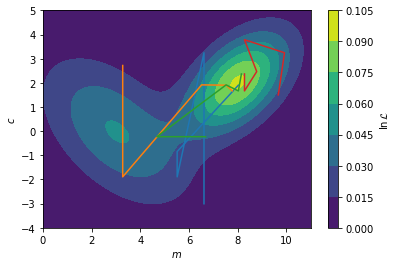
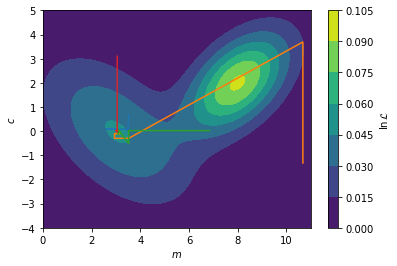
deploy: a7051bd24dda1ea9a15cdadef0919db29575c3d3

Changed region(s): [[0.272, 0.1504, 0.7859, 0.6617]]

diff --git a/searchindex.js b/searchindex.js
@@ -1,1 +1,1 @@
-Search.setIndex({docnames:["1_the_fourier_transform/an_introduction_to_fourier_transforms","1_the_fourier_transform/fourier_transforms_for_reflectometry_analysis","2_model_dependent_analysis/what_is_model_dependent_analysis","3_reflectometry_slab_models/how_we_calculate_the_reflectivity_of_a_slab_model","3_reflectometry_slab_models/optical_parameters_for_neutrons_and_xrays","3_reflectometry_slab_models/roughness_and_microslicing","3_reflectometry_slab_models/the_slab_model","4_model_reparameterisation/a_case_for_model_reparameterisation","4_model_reparameterisation/niti_multilayer_example","4_model_reparameterisation/phospholipid_monolayer_example","5_fitting_processes_and_problems/how_do_we_maximise_the_likelihood","5_fitting_processes_and_problems/how_to_leverage_our_prior_knowledge","5_fitting_processes_and_problems/what_is_the_likelihood","contributors","intro"],envversion:{"sphinx.domains.c":2,"sphinx.domains.changeset":1,"sphinx.domains.citation":1,"sphinx.domains.cpp":5,"sphinx.domains.index":1,"sphinx.domains.javascript":2,"sphinx.domains.math":2,"sphinx.domains.python":3,"sphinx.domains.rst":2,"sphinx.domains.std":2,"sphinx.ext.intersphinx":1,"sphinxcontrib.bibtex":9,sphinx:56},filenames:["1_the_fourier_transform/an_introduction_to_fourier_transforms.md","1_the_fourier_transform/fourier_transforms_for_reflectometry_analysis.ipynb","2_model_dependent_analysis/what_is_model_dependent_analysis.md","3_reflectometry_slab_models/how_we_calculate_the_reflectivity_of_a_slab_model.ipynb","3_reflectometry_slab_models/optical_parameters_for_neutrons_and_xrays.ipynb","3_reflectometry_slab_models/roughness_and_microslicing.ipynb","3_reflectometry_slab_models/the_slab_model.md","4_model_reparameterisation/a_case_for_model_reparameterisation.md","4_model_reparameterisation/niti_multilayer_example.ipynb","4_model_reparameterisation/phospholipid_monolayer_example.ipynb","5_fitting_processes_and_problems/how_do_we_maximise_the_likelihood.ipynb","5_fitting_processes_and_problems/how_to_leverage_our_prior_knowledge.md","5_fitting_processes_and_problems/what_is_the_likelihood.ipynb","contributors.md","intro.md"],objects:{},objnames:{},objtypes:{},terms:{"0":[1,3,4,5,9,10,11,12,14],"000":10,"00000j":4,"00001":4,"00039":14,"001":[1,3,5],"00260":14,"003":14,"00461223":4,"0053":14,"007":14,"00890j":4,"012":14,"01934":4,"01980001503076100":14,"02":14,"022":[8,14],"02614057":10,"0294":14,"03":14,"03156j":4,"033":10,"03342360":4,"04493869":10,"0469":14,"04893":14,"0496667614679125":12,"05139":4,"06":[4,5,8],"07":[4,14],"074":1,"074e":[1,5],"078":14,"08j":4,"092":10,"09j":4,"0j":[3,5],"1":[0,1,3,4,5,8,9,10,11,12,14],"10":[1,4,5,8,10,12,14],"100":4,"1000":[1,3,9,10,12],"1008202821328":14,"1016":14,"1023":14,"1039":14,"104":1,"1051":14,"107":14,"108":14,"1098":14,"11":[10,14],"1103":14,"1107":14,"1119":14,"1198":14,"12":[1,5,12,14],"1204":14,"1251681342":4,"14":[4,5],"15":[9,14],"155":14,"16":[1,3],"167":10,"17":5,"1761":14,"1763":14,"18":[9,14],"180":4,"186":1,"186e":[1,3,5],"19":[9,10,14],"193":14,"1948":14,"194812030504":14,"1954":14,"197":14,"1980":14,"1997":14,"1998":14,"1999":14,"1e":5,"1e6":4,"1f77b4":12,"1j":[1,3],"2":[1,3,4,5,8,10,12,14],"20":[1,3,5],"200":[1,3,5,14],"2005":14,"2006":14,"2007":14,"200q":1,"2010":14,"2011":14,"2018":14,"2019":14,"2021":14,"2022":14,"20384101638663543":12,"204":14,"21":14,"23":8,"248":14,"25":1,"25e":5,"265":9,"265n_c":9,"2827":14,"2848":14,"297":14,"2f":1,"2k_nk_":5,"3":[1,3,4,5,6,8,10,12,14],"300":[1,3],"311":14,"3254017":14,"33":14,"338":14,"339":14,"341":14,"342":14,"357":14,"359":14,"36841741":10,"369":14,"370":14,"3blue1brown":0,"3e":8,"4":[1,3,4,5,6,8,10,12,14],"40":14,"407304119999999e":4,"41":14,"417":8,"417e":8,"418":14,"42":[12,14],"4245e":5,"434":14,"438":8,"44":14,"4526":14,"46":1,"466991901664356e":4,"47":[8,14],"471":14,"5":[1,3,4,5,9,10],"50":[4,5],"500":[1,3,5],"504":14,"51":8,"51359435660888e":4,"52":14,"520":14,"53":14,"531":14,"54":[4,14],"58":8,"581741199999997e":4,"59":14,"596":14,"5q":3,"6":[1,3,4,5,8,10,14],"600":4,"6133":14,"6141":14,"646e":4,"648":14,"649":14,"67e":4,"69":8,"7":[5,9,10,12],"75e":4,"761":14,"779":14,"78":14,"8":[1,4,5,8,10,12],"817940326e":4,"822479152000001e":4,"83e":4,"856832":14,"867":8,"87":14,"871":1,"871e":[3,5],"89954207":10,"9":[4,5,8,14],"90":9,"908":8,"91":8,"922868":14,"940392077826248e":4,"95":14,"951e":8,"9725010164397537e":4,"978":14,"98":[1,14],"99":14,"9957561":10,"99615666":10,"99998503":10,"99999727":10,"\u00e0":14,"\u00e5":[0,1,3,5,8,9],"\u00e8":14,"\u00e9":14,"\u00f6":14,"\u00fc":14,"abel\u00e8":[3,5],"abstract":8,"angstrom\u00b3":4,"br\u00f6hl":14,"case":[1,4,6,11],"do":[1,2],"float":[8,10,12],"function":[1,2,3,5,6,9,10,12],"import":[1,2,3,4,5,6,7,8,9,10,12],"int":1,"new":14,"return":[1,3,8,10,12],"switch":14,"true":[7,10],"try":10,"while":[4,7,8],A:[1,2,5,6,8,9,10],As:[6,9],Be:10,By:2,For:[1,4,8,9,12,14],If:[1,2,10,11,12,14],In:[1,4,6,7,9,10,11,14],It:[1,2,4,5,6,9,10,11],No:[4,5],One:9,The:[0,2,3,4,5,7,8,9,10,12,14],Then:[1,2,3],There:[5,10],These:[1,5,10],To:[1,5,7],_:[1,3],ab:[1,3],abel:[3,5,14],abeles48:[3,14],abeles_with_rough:5,abl:5,about:[7,9,10,11],abouv:1,abov:[1,2,5,8,10,12],abscissa:12,absolut:10,absorpt:4,academ:14,accept:[1,11],accor:4,accord:4,account:5,accur:[2,5,7],acf2:1,acf:1,achiev:[1,5,9,11],across:12,act:9,action:1,ad:9,adapt:5,add:[4,9],add_patch:5,addit:[1,7,9],addition:[2,3,5,7,8,10],admittedli:5,advanc:14,affect:9,after:[1,4,10],again:[1,5],against:6,agnet:14,agre:12,agreement:[2,10,12],aid:3,aim:[10,12,14],air:[1,4,5,9,14],al:7,alexand:13,algorithm:[2,10,11,14],align:1,all:[0,3,4,10,11],allow:[7,8,9,10],alon:10,alonso:14,alpha:[1,4,12],alpha_0:4,alpha_1:4,alreadi:[2,11],also:[4,8,9],although:1,alwai:4,am:14,amphiphil:9,an:[2,4,5,6,7,10,11,14],analog:[0,10,12],analys:[10,14],analysi:[3,6,8,9,10,11,12,14],analyt:2,andbook:14,andrew:[13,14],angl:4,angstrom:[4,8],ani:[5,12],anlaysi:14,ann:14,anomagnet:14,anoth:1,anphi:14,apm:9,appear:1,append:10,appl:14,appli:[1,2,5,7,9,10,14],applic:[3,10,14],approach:[1,2,3,5,6,7,8,9,10,14],approx:1,approxim:[3,14],ar:[0,1,2,3,4,5,6,7,8,9,10,11,12,14],area:7,argmax:10,argsort:10,armstrong:13,arnold:[13,14],around:[4,5],arrai:[1,3,5,8,10],artefact:5,artifici:14,artur:13,ask:14,assembl:9,assess:10,assign:8,associ:[11,12,14],assum:9,assumpt:[2,7,8,9],ateri:14,atom:[4,8,9],attach:9,attent:14,australian:13,autocorrel:1,avail:1,avogadro:8,awar:[2,10],ax:[1,5,12],axhlin:1,axvlin:1,b:[3,8,14],b_:[3,4,8],b_i:[8,9],b_n:4,b_ni:8,b_ti:8,back:10,balakrishnan:13,bar:[3,12],base:[2,3,8],basic:14,bay:[11,14],bayesian:[11,14],beam:4,becom:[1,4,10],been:[1,3,5,8,9],befor:[0,4,5,6],begin:[1,3],being:[2,5,12,14],belief:11,believ:2,below:[0,1,2,3,5,6,8,9,10,12],benefit:9,berk:14,best:[9,10,12],beta:[1,3,5,8,9],beta_0:3,beta_1:6,beta_2:6,beta_:[1,8,9],beta_i:9,beta_microsl:5,beta_n:3,beta_ni:8,beta_ti:8,between:[0,1,2,3,5,6,10,12,14],bia:2,bias:11,big:1,bigg:[1,12],biolog:[10,14],bj:14,bjorck11:[10,14],bkg:4,black:[1,10],block:14,blue:[1,10,12],bmatrix:3,book:[1,11,14],born:[3,14],borrow:1,both:[9,14],bound:[8,11],bowen:14,bp63:[11,14],brian:13,bring:3,broad:[2,12],broadli:2,brought:3,bsd:3,c6h14:4,c9cp00203k:14,c:[1,4,10,12,14],calcul:[1,2,4,5,6,9,12],call:[4,6],callback:10,campbel:14,can:[1,2,3,4,5,6,7,8,9,10,11,12],cannot:[5,12],caract:14,carbon:9,carefulli:10,caruana:13,cation:14,catter:14,caus:9,caution:7,cdot:8,centr:13,chanc:14,chang:[1,2,10],chapter:4,character:14,characterist:3,characteristic_matric:3,check:4,chem:14,chemic:[6,7,14],chemistri:2,chi:12,chicago:13,choic:4,circ:9,clark:14,classic:4,clear:[2,5,6,10],clearer:3,clearli:5,clifton:14,close:[3,4],cm:8,co:[1,4],coci:14,code:[5,8,10,14],coher:4,cold:4,colloid:14,color:12,colorbar:10,comfort:14,common:[2,5,6,8,9,10],commonli:[1,7,10,12],compar:[2,3,5,7,12],comparison:6,complementari:7,complet:[2,10],complex:[3,4,9,10,14],composit:9,computation:10,concept:7,conclus:10,condens:14,conj:3,conjug:3,consid:[1,2,3,5,6,8,9,10,11,12],consider:10,consist:[6,8,9],constant:[2,8,11],constrain:[8,9],constraint:[7,9],construct:[2,3,6,11],consult:9,content:14,context:2,continu:14,contourf:10,contrast:10,contribut:[4,14],convenit:4,convers:7,cooper:13,cosin:1,could:[6,11],coupl:10,cours:14,cover:[2,14],creat:5,croce:[5,14],crystallogr:14,crystallographi:1,css:[9,14],cubitt:14,curr:14,current:[10,14],current_theta:10,curv:4,curve_fit:12,d:[1,3,5,12,14],d_1:6,d_2:6,d_h:9,d_i:9,d_microsl:5,d_n:3,d_t:9,dan:14,data:[1,2,3,5,6,7,8,9,10,11,12,14],databas:8,datapoint:12,dataset:[1,10,12],de:14,decomposit:0,deep:14,def:[1,3,8,10,12],defin:[1,2,4,6,7,8,9,12],definit:4,deg2rad:9,delta:1,denot:1,densiti:[1,3,5,6,7,9],depend:[1,4,6,8,9,10,11,12,14],deposit:8,deriv:[1,6],descent:10,descirb:4,describ:[2,3,4,5,6,7,10,11,12],descript:[1,7,9],design:11,desir:[8,10],deslatt:14,destruct:6,detail:[0,1,2],detector:6,determin:[3,10,14],deuter:4,develop:14,deviat:[3,12],devind:[1,11,14],diatom:2,diff:[1,3],differ:[1,5,6,14],differenti:[10,11,14],differential_evolut:10,difficult:9,diffract:1,dimens:[1,6],dimension:10,dioxid:[1,5],directli:[4,8],discoveri:10,discuss:[1,5,6,12],disposit:8,distanc:1,distinct:1,distribut:[10,12],divid:1,docstr:3,doctrin:14,doe:[2,3,4,5],doi:14,domain:0,done:12,dot:12,downhil:10,dppc:9,dr:[1,11],draw:[10,14],dtype:3,du:14,due:[1,2],dura:14,dvanc:14,e:[4,6,14],each:[3,5,6,8,9],easili:[8,10],edg:4,edgecolor:5,edit:14,editor:14,edler:14,effect:[1,4,5,10,14],effici:14,eflect:14,elast:0,electron:4,element:[4,8,12],elementari:[1,14],eleph:14,els:2,enabl:[5,11],encount:[2,10],end:[1,3],energi:4,ensur:[2,10],entir:2,enumer:12,enzym:2,equat:[1,2],equival:4,error:[5,12],errorbar:12,especi:4,essai:14,essenti:0,estim:1,et:7,euroepan:13,european:14,eutect:14,eutron:14,evalu:[8,14],eventu:10,ever:2,everi:9,evolut:[10,11,14],evolutionari:10,exampl:[2,4,5,6,7,10,11],exhaust:14,exist:[5,10],exp:[1,3,5],expand:14,expect:[2,11],experi:[2,4,14],experiment:[2,6,7,12],expert:14,explicitli:1,exploit:14,explor:1,extend:9,extrem:9,f:[1,3,4,8,14],fact:11,factor:[3,4,12],fair:2,fals:5,familiar:[1,2,7],fantast:1,far:12,fashion:10,feed:10,feedback:14,feel:14,fernandez:14,ff7f0e:12,field:[9,14],fig:[1,5,6,9,12],figsiz:[1,5,12],figur:[1,2,5,10,12,14],fill:5,fill_between:12,find:[1,2,5,8,9,10,11,12,14],find_peak:1,first:[1,2,3,6,7,8,10,12],fit:[2,7,8,10,12,14],fitzsimmon:14,flat:[1,5],flavour:[7,10],flexion:14,flow:2,fm05:14,fm:8,focu:14,focus:0,follow:[1,8,9,10,12,14],forc:2,form:[1,10],formal:[3,5],format:14,formula:4,found:[1,3,5,8,9,10,11],four:14,fourier:[2,3,6,14],fourier_transform:1,frac:[1,3,4,5,8,9,11,12],fraction:9,francoi:13,free:[7,10,14],frensel:3,fresnel:[3,5],fresnel_reflect:3,fring:1,from:[0,1,2,3,4,5,6,7,8,9,10,12,14],fu:4,full:1,fulli:9,fundament:[0,6],further:[10,11],futur:14,g:[8,14],gaetano:13,gain:1,garbag:2,gcm:8,gener:[2,10,14],genet:14,geometri:6,gerelli:14,get:[2,12],github:14,give:[0,3,7,14],given:[5,6,9,10,12],glavic:13,glob:14,global:[10,14],go:[3,6,10],good:12,gradient:12,gradient_callback:10,gradient_v:10,gradual:14,graphic:8,great:[0,11],greater:1,group:9,grutter:13,guess:10,guntherodt:14,h:14,ha:[1,5,8,9,14],hall:13,hand:5,hard:8,harder:10,have:[1,2,3,9,10,11,12],head:9,heavier:4,heavili:[9,12,14],heavisid:1,heinrich:14,helmholtz:13,helper:[5,10],henc:[0,12],henomena:14,here:[3,4,12],hereon:13,heurist:14,higher:9,hoogerheid:14,hopefulli:6,horizont:1,how:[2,6,7,9,12,14],howard:14,howev:[1,2,5,6,7,8,10,12],hydrocarbon:9,hydrophil:9,hydrophob:[9,14],i10q:1,i:[1,3,4,6,8,9,12],identifi:5,ignor:[4,5],illinoi:13,illustr:4,imaginari:4,impact:[0,5],implement:[3,5,10],impli:5,impos:11,improv:2,inaccur:5,incid:[1,6],includ:[0,2,3,8,9,14],incorrectli:5,increas:[5,10,12],independ:2,indic:[1,4,10,12],individu:[3,4,8],induc:14,influenc:5,inform:[1,7,14],infti:1,inher:2,initi:10,input:3,insect:10,insight:[2,14],insolubl:9,inspir:10,instead:[1,3,8,10,11],institut:13,instrument:9,integr:11,intens:[1,10],interact:[0,1],intercal:9,intercept:12,interest:[0,2,14],interfac:[3,4,5,6,9,14],interfer:[1,6],interpret:[2,5],interrog:[5,10],introduc:[2,5,6,7,9,11],introduct:[11,14],inv_fourier_transform:1,invers:[1,14],investig:[1,2,7,10],involv:[6,8],ipykernel_2058:4,isbn:14,isi:[13,14],isotop:10,issu:[1,14],its:8,j:14,jackson:14,jci:14,jean:13,john:[7,14],joshaniel:13,jpsc21:[7,14],k0:3,k:[1,3,10,14],k_0:3,k_:[3,5],k_n:[3,5],karin:14,khairi:14,kienzl:14,kinet:2,kn:3,knowledg:14,known:[2,9],kronm:14,l:[10,11,12,14],la:14,label:[1,3,4,5,10],lak19:14,lakei:14,lambda:4,languag:[7,14],larg:[1,14],last:4,later:[6,8],latter:7,law:4,lawrenc:14,layer:[3,4,5,6,8,9],le:14,lead:[0,1,2,4,5,6],leak:5,learn:9,lectromagn:14,left:[4,5],legend:[1,3,4,5],length:[1,3,5,6,7,9],leq:1,less:6,let:[0,1,11],licens:3,light:14,like:[1,2,5,9,11],likelihood:11,limit:[1,2,8,9],line:[1,10,12],linearli:12,linspac:[1,3,4,5,9,10,12],lipid:14,liquid:14,list:14,literatur:9,ller:14,ln:[10,12],loadtxt:12,local:10,log:[1,3,5,12],logic:[2,11,14],logpdf:10,lond:14,look:[0,1,2,3,7,10,11,12],loss:1,lost:6,lovel:14,low:3,lr99:[2,14],ls:12,lw:12,m:[3,10,12,14],m_:[3,8],m_e:4,m_w:8,m_w_ni:8,m_w_ti:8,made:[2,7,8],magnet:[4,14],magnitud:1,mai:[1,2,7,8,12,14],majkrzak:14,major:[8,12],make:[2,3,4,7,9,14],mangiapia:13,mani:[10,14],maranvil:13,mark:13,marker:12,mass:7,match:1,materi:[1,3,4,5,6,8],mathcal:[10,11,12],mathemat:14,mathit:[1,3],mathrm:[1,3,8,9,12],matnei:14,matplotlib:[1,3,4,5,9,10,12],matric:3,matrix:[3,5],matter:[8,14],matyszewska:14,max:[1,3,12],maxima:10,maximilian:13,maximis:[11,12],maximum:[9,10,11,12],mayer:14,mbd:[1,14],mccluskei:[13,14],mead:10,mean:[1,5,8,9,10,12],measur:[0,1,2,6,7,11,12,14],media:3,member:10,membran:14,menten:2,mention:9,merit:2,meshgrid:10,method:[3,5,14],methodolog:[1,2,5,10],metri:14,metric:[10,12],micel:14,micha:2,might:[2,14],milieux:14,minim:10,minimis:[10,12],minimum:[10,11],mkh10:[2,14],mn_d2o:4,mn_h2o:4,mn_layer:4,modal:10,model:[1,4,5,8,9,10,11,12,14],modifi:[3,5],modul:[4,5,10],modulenotfounderror:4,mol:8,molecul:[2,7],molecular:8,moment:4,monolay:14,more:[0,2,4,5,7,8,9,10,11,12],most:[3,4,5,6,10],moulin:13,move:10,movement:14,msfe:[9,14],much:[3,6],multi:10,multivariate_norm:10,muon:13,must:[2,5,9],mv1:10,mv2:10,mv:10,mx_h2o:4,mx_layer:4,n:[3,4,5,8,9,12,14],n_0:4,n_1:4,n_:[3,12],n_a:8,n_c:9,n_i:4,name:4,nanostructur:14,nation:13,natur:[7,9],nazaruk:14,ndarrai:[1,3,8,10,12],nearbi:10,necessari:[3,5,10],need:2,neg:10,neglig:4,nelder:10,nelson:[13,14],neutron:[0,1,2,3,6,7,8,10,13,14],nevot:5,nevotc80:[5,14],newaxi:[1,3],ni:8,nickel:[5,8],nist:4,nll:10,nois:1,noisi:1,non:10,none:[4,10],norm:12,normal:[1,3,4,10,12],normal_wavevector:3,normalis:[1,12],note:[1,2,9,10],notic:[5,12],now:[0,3,5,9,10,12],np19:[3,14],np:[1,3,4,5,8,9,10,12],nuanc:6,number:[1,4,7,8,9,10,12],number_lay:3,number_q:3,numer:1,numpi:[1,3,4,5,8,9,10,12],o:12,observ:[1,5,6,12],obtain:[1,5,8],obvious:6,offer:2,offset:1,often:14,olar:14,onc:[10,14],ond:14,one:[4,9,10,11,12],ones:3,ones_lik:5,onli:[1,5,8,9,12],onlin:8,open:14,opin:14,opinion:14,optim:[10,12,14],optimis:[9,10],optimum:10,orang:[10,12],order:[4,6,10],organis:14,orient:4,origin:14,other:[9,12],our:[1,2,5,6,7,8,9,10,12],out:[2,11],outsid:[4,11],over:14,overal:[3,10,12],overview:0,oxford:14,p0:3,p1:3,p:[11,12,14],packag:[3,4,8],page:14,pai:14,panaccion:14,paper:14,par54:[3,14],par:14,param:[1,3,8,12],paramet:[3,5,6,7,8,9,10,11,12,14],parameteris:[7,9,14],pari:14,parker:14,parkin:14,parratt:[3,14],part:[1,4,12],particl:10,particular:[6,7],particularli:14,patch:5,path:[6,10],pattern:[0,1,6],paul:13,pdf:[10,12],peak:1,pedogog:1,pedulla:14,per:7,perfect:5,perfectli:5,perform:[0,1,12],perpendicular:1,pg:1,phase:[1,2,3,14],phase_factor:3,phi:3,phi_0:3,phi_i:9,phi_n:3,phi_t:3,phil:14,phospholipid:14,phy:14,physic:[1,2,6,7,9,14],physica:14,physrev:14,pi:[1,3,4,12],pictori:9,piec:[1,5,8],pint:8,place:11,plane:[1,9],pleas:[4,14],plot:[1,3,5,9,10,12,14],plt:[1,3,4,5,9,10,12],point:12,polar:14,polissag:14,popul:10,popular:2,posit:10,possibl:[1,2,5,6,9,10,12],posterior:11,potenti:4,prepar:[2,8],prescott:14,present:[1,2,5],press:14,pressur:9,preston:14,previou:[2,7],previous:[3,5,7,9],price:14,print:[1,4,8,10],probabl:[11,12],probe:[2,10,11],problem:[1,2,10,14],procedur:14,process:[2,7,8,10,14],prod:3,produc:[1,2,14],product:3,profil:[1,5,6],program:14,propag:[3,6,14],propos:2,propto:11,proton:4,purnima:13,py:[4,5,10],pyplot:[1,3,4,5,9,10,12],python:[3,14],q2:1,q:[0,1,2,3,4,5,14],q_:1,q_x:1,q_y:1,qualiti:10,quantifi:10,quantiti:[4,14],quelqu:14,question:14,quick:1,quickli:1,r2:1,r:[1,3,5,6,9,13,14],r_:[3,4,5],r_abel:3,r_e:4,r_fourier:3,r_microsl:5,r_nevot_croc:5,r_with_rough:5,radiat:[0,1,4],radiu:4,rai:[1,14],random:10,rang:[1,2,3,5,10,14],rasant:14,rather:[2,7,8],ratio:6,ration:10,rationalis:1,rayon:14,rck:14,re:10,reach:[8,10],read:14,real:[3,5,6],realli:2,reason:8,recent:[4,9,14],reciev:14,reciproc:4,rectangl:5,recurs:3,red:5,reduc:[7,9],refin:6,reflecit:4,reflect:[1,2,5,6],reflectmodel:4,reflecto:14,reflectometri:[0,2,3,4,5,6,7,8,9,10,12],refnx:[3,4,14],refract:[3,6],region:[1,5,9,10],rel:4,relat:8,relationship:1,relev:[9,14],reli:3,render:1,reparameteris:[6,8,9,12,14],repeat:8,repositori:14,repres:[2,12],reproduc:3,requir:[7,14],res1:10,res2:10,resolut:[1,2],respect:[1,4],result:[1,2,3,5,6,10],resultant_matrix:3,retriv:1,rev:14,review:14,rewrit:1,rho:[3,8],rho_:[4,8],rho_fu_lay:4,rho_fu_wat:4,rho_ni:8,rho_ti:8,rho_to_beta:8,richardson:14,right:[1,4,5],risat:14,robust:10,room:8,root:10,rout:10,rphysap:14,rsta:14,rstl:14,rule:5,s0021889811041446:14,s0921:14,s1359:14,s1600576718017016:14,s1600576718017296:14,s:[0,1,4,8,9,10,11,14],saaka:14,sai:1,same:[1,4,5,6,8,12],sampl:[0,1,2,4,5,8],sanchez:14,sansom:14,satija:14,scale:[1,14],scatter:[0,1,3,5,6,7,9,13,14],sche:14,scherrer:13,schlossman:13,school:14,sci:14,scienc:[2,14],scipi:[1,8,10,12],scope:4,search:14,second:4,section:[2,6,7,10],see:[4,5,6,10],seen:[11,12],select:12,self:9,semi:10,semilog:4,sensit:1,separ:1,seri:[1,3,5,6],set:8,set_xlabel:[1,5,12],set_xlim:5,set_ylabel:[1,5,12],set_ylim:5,shao:14,shape:[3,10],shortest:5,should:[1,4,5,7,9,10,12,14],show:[1,2,3,5,6,8,9,10,12,14],shown:[1,2,3,5,6,9,10,12],si:1,sigma2:5,sigma3:5,sigma5:5,sigma7:5,sigma:[5,12],sigma_:5,sigma_n:12,sign:4,signal:1,silic:14,silicon:[1,5,8],similar:[2,3],simpl:[1,2,4,6,7,8,9,10,11,14],simpli:10,simul:[2,5,6,7,8],sin:[4,9],singl:[9,12],sio_2:1,sit:[9,12],siv11:[1,14],sivia:[1,11,14],sj06:[11,14],skill:14,skip:14,sko19:14,skoda:[13,14],slab:[5,7,9,14],sld_:4,sld_n:4,sld_with_rough:5,sld_x:4,sldn_d2o:4,sldn_h2o:4,sldn_layer:4,sldx_layer:4,sldx_water:4,smooth:[1,5],snell:4,so:12,soc:14,soft:14,solid:14,solubl:9,solut:10,solv:14,solvat:9,solvent:[9,14],some:[0,1,2,5,6,9,10,11,12,14],someth:[0,2,4],son:14,sourc:[13,14],sp97:[10,14],space:[0,4,10,14],spallat:[13,14],speak:9,specif:[7,9],spectra:2,specular:14,spin:4,spintron:14,springer:14,sqrt:3,squar:[1,3],sratifi:14,staff:9,standard:[12,13,14],start:[10,11],stat:[10,12],state:11,std:1,step:[1,5,10,11],stephen:13,still:[5,8],storn:14,straight_lin:12,straightforward:7,strand:9,stratifi:3,structur:[1,2,4,7,8,14],studi:[1,2,9,14],subject:14,subplot:[1,5,12],suggest:[11,14],sum:[1,3,4,8],sum_:[4,8,9,12],summat:12,superphas:3,sur:14,sure:14,surfac:[1,3,4,8,14],surfact:14,swarm:10,synthesi:2,system:[1,2,5,6,7,8,9,10,14],t:[10,14],t_t:9,tabl:4,tabul:4,tackl:2,tail:9,take:[0,2,10,11],taken:[3,6],tan80:[9,14],tanford:[9,14],techniqu:[7,14],technolog:13,temperatur:8,tend:1,term:[6,8,9,12],text:1,textquotesingl:14,than:[1,5,8,10],thei:[1,10,14],them:[5,12],theorem:11,theori:[1,14],therefor:[1,2,5,7,8,10,11],thermal:4,theta:[9,10,11,12],thi:[0,1,2,3,4,5,6,7,8,9,10,11,12],thick:[1,3,5,6,9],thin:5,thing:2,think:7,thopson:4,those:11,thought:1,three:[2,8],through:[3,5,6,14],thu:4,thumb:5,tight_layout:12,time:[0,1,5,8],times10:1,tiqu:14,titanium:8,tkh:[10,14],tmp:4,togeth:3,tom:13,tool:[1,2,7],top4:10,top:1,toperverg:14,total:14,toward:[1,10,14],traceback:4,tradit:[8,9,14],tran:14,transform:[2,3,6,14],translat:7,transmitt:3,treec:14,trigonometri:9,tude:14,turn:10,tutori:[11,14],two:[1,2,3,5,6,7,9,10],txt:12,typic:[2,4,5,6,7,8,9,10,12],tz07:14,u:8,uantum:14,uncertainti:12,unclear:8,under:[1,3,9],underli:[2,12],understand:[1,2,3,6,7,11,14],unintuit:7,uniqu:10,unit:[0,4],unitregistri:8,univers:[13,14],unlik:9,unphys:[1,5],until:8,up:10,uphil:10,us:[2,3,4,5,7,8,9,10,11,12,14],useless:1,user:[1,14],util:4,utilis:1,valu:[1,3,4,8,9,10,11,12],valuabl:1,vari:[8,10],variabl:8,varieti:10,vector:3,veri:[5,9,10],verr:14,version:1,vibrat:2,video:0,visualis:[1,5],vot:14,w:[8,14],wa:[1,2,6,11,14],wai:[2,4,9],watch:0,water:[4,9,14],wave:[3,6],wavelength:4,wavevector:[1,3],wc19:14,we:[0,1,2,4,5,6,7,8,9,11,12,14],webpag:14,weight:8,welbourn:14,well:2,were:11,what:14,when:[3,6,9,10,11,12],where:[1,2,3,4,5,6,8,9,10,11,12],which:[0,1,3,5,8,9,10,11,12],width:5,wiesendang:14,wikipedia:4,wilei:14,within:11,without:[1,2,5],word:[2,14],work:[5,7,14],workflow:2,workshop:14,wormington:14,would:[1,2,5,6,9,11],wpmb99:[10,14],written:[1,12],wwe:9,x:[1,10,12,14],x_n:12,xlabel:[1,3,5,9,10],xlim:4,xy:9,y:[10,11,12,14],y_fit:12,y_n:12,ylabel:[1,3,5,9,10],ylim:4,you:[1,2,11,12,14],your:[9,14],yscale:[1,3,5],yy:12,z:[1,3,5,6],zabel:14,zentrum:13,zero:3,zeros_lik:[1,3],zhou:14,zorder:12,zq:1,ztbt07:14},titles:["An introduction to Fourier transforms","Fourier transforms for reflectometry analysis","What is model-dependent analysis?","How we calculate the reflectivity of a slab model","Optical parameters for neutrons and x-rays","Roughness and microslicing","The \u201cslab model\u201d","A case for model reparameterisation","NiTi multilayer example","Phospholipid monolayer example","How do we maximise the likelihood?","How to leverage our prior knowledge?","What is the likelihood?","Contributors","A Guide to Reflectometry"],titleterms:{"case":7,"do":10,A:[7,11,14],The:[1,6],about:14,algorithm:3,an:[0,1],analysi:[1,2],angl:9,approxim:1,area:9,bibliographi:14,born:1,calcul:3,chain:9,contrast:4,contributor:13,densiti:[4,8],depend:2,differ:4,exampl:[1,8,9],fourier:[0,1],fresnel:4,gradient:10,guid:14,how:[3,10,11],implic:4,index:4,interfac:1,interfaci:5,introduct:0,knowledg:11,layer:1,length:[4,8],leverag:11,likelihood:[10,12],mass:8,materi:14,maximis:10,method:10,microsl:5,model:[2,3,6,7],molecul:9,monolay:9,multilay:8,neutron:4,niti:8,optic:4,our:11,oxid:1,paramet:4,per:9,phospholipid:9,prior:11,problem:5,rai:4,reflect:[3,4,14],reflectometri:[1,14],refract:4,reparameteris:7,rough:5,scatter:[4,8],singl:1,slab:[3,6],sld:4,specular:1,stochast:10,term:4,thi:14,tilt:9,transform:[0,1],uniform:11,us:1,vs:14,we:[3,10],what:[0,2,12],x:4}})
+Search.setIndex({docnames:["1_the_fourier_transform/an_introduction_to_fourier_transforms","1_the_fourier_transform/fourier_transforms_for_reflectometry_analysis","2_model_dependent_analysis/what_is_model_dependent_analysis","3_reflectometry_slab_models/how_we_calculate_the_reflectivity_of_a_slab_model","3_reflectometry_slab_models/optical_parameters_for_neutrons_and_xrays","3_reflectometry_slab_models/roughness_and_microslicing","3_reflectometry_slab_models/the_slab_model","4_model_reparameterisation/a_case_for_model_reparameterisation","4_model_reparameterisation/niti_multilayer_example","4_model_reparameterisation/phospholipid_monolayer_example","5_fitting_processes_and_problems/how_do_we_maximise_the_likelihood","5_fitting_processes_and_problems/how_to_leverage_our_prior_knowledge","5_fitting_processes_and_problems/what_is_the_likelihood","contributors","intro"],envversion:{"sphinx.domains.c":2,"sphinx.domains.changeset":1,"sphinx.domains.citation":1,"sphinx.domains.cpp":5,"sphinx.domains.index":1,"sphinx.domains.javascript":2,"sphinx.domains.math":2,"sphinx.domains.python":3,"sphinx.domains.rst":2,"sphinx.domains.std":2,"sphinx.ext.intersphinx":1,"sphinxcontrib.bibtex":9,sphinx:56},filenames:["1_the_fourier_transform/an_introduction_to_fourier_transforms.md","1_the_fourier_transform/fourier_transforms_for_reflectometry_analysis.ipynb","2_model_dependent_analysis/what_is_model_dependent_analysis.md","3_reflectometry_slab_models/how_we_calculate_the_reflectivity_of_a_slab_model.ipynb","3_reflectometry_slab_models/optical_parameters_for_neutrons_and_xrays.ipynb","3_reflectometry_slab_models/roughness_and_microslicing.ipynb","3_reflectometry_slab_models/the_slab_model.md","4_model_reparameterisation/a_case_for_model_reparameterisation.md","4_model_reparameterisation/niti_multilayer_example.ipynb","4_model_reparameterisation/phospholipid_monolayer_example.ipynb","5_fitting_processes_and_problems/how_do_we_maximise_the_likelihood.ipynb","5_fitting_processes_and_problems/how_to_leverage_our_prior_knowledge.md","5_fitting_processes_and_problems/what_is_the_likelihood.ipynb","contributors.md","intro.md"],objects:{},objnames:{},objtypes:{},terms:{"0":[1,3,4,5,9,10,11,12,14],"000":10,"00000j":4,"00001":4,"00039":14,"001":[1,3,5],"00260":14,"003":14,"00461223":4,"0053":14,"007":14,"00890j":4,"012":14,"01934":4,"01980001503076100":14,"02":14,"022":[8,14],"02406394":10,"02614057":10,"0294":14,"03":14,"03156j":4,"033":10,"03342360":4,"0437418":10,"04493869":10,"0469":14,"04893":14,"0496667614679125":12,"05139":4,"06":[4,5,8],"07":[4,14],"074":1,"074e":[1,5],"078":14,"08j":4,"092":10,"09j":4,"0j":[3,5],"1":[0,1,3,4,5,8,9,10,11,12,14],"10":[1,4,5,8,10,12,14],"100":4,"1000":[1,3,9,10,12],"1008202821328":14,"1016":14,"1023":14,"1039":14,"104":1,"1051":14,"107":14,"108":14,"1098":14,"11":[10,14],"1103":14,"1107":14,"1119":14,"1198":14,"12":[1,5,12,14],"1204":14,"1251681342":4,"14":[4,5],"15":[9,14],"155":14,"16":[1,3],"167":10,"17":5,"1761":14,"1763":14,"18":[9,14],"180":4,"186":1,"186e":[1,3,5],"19":[9,10,14],"193":14,"1948":14,"194812030504":14,"1954":14,"197":14,"1980":14,"1997":14,"1998":14,"1999":14,"1e":5,"1e6":4,"1f77b4":12,"1j":[1,3],"2":[1,3,4,5,8,10,12,14],"20":[1,3,5],"200":[1,3,5,14],"2005":14,"2006":14,"2007":14,"200q":1,"2010":14,"2011":14,"2018":14,"2019":14,"2021":14,"2022":14,"20384101638663543":12,"204":14,"21":14,"23":8,"248":14,"25":1,"25e":5,"265":9,"265n_c":9,"2827":14,"2848":14,"297":14,"2f":1,"2k_nk_":5,"3":[1,3,4,5,6,8,10,12,14],"300":[1,3],"311":14,"3254017":14,"33":14,"338":14,"339":14,"341":14,"342":14,"357":14,"359":14,"369":14,"370":14,"3blue1brown":0,"3e":8,"4":[1,3,4,5,6,8,10,12,14],"40":14,"407304119999999e":4,"41":14,"417":8,"417e":8,"418":14,"42":[12,14],"4245e":5,"434":14,"438":8,"44":14,"4526":14,"46":1,"466991901664356e":4,"47":[8,14],"471":14,"5":[1,3,4,5,9,10],"50":[4,5],"500":[1,3,5],"504":14,"51":8,"51359435660888e":4,"52":14,"520":14,"53":14,"531":14,"54":[4,14],"58":8,"581741199999997e":4,"59":14,"596":14,"5q":3,"6":[1,3,4,5,8,10,14],"600":4,"6133":14,"6141":14,"646e":4,"648":14,"649":14,"67e":4,"69":8,"7":[5,9,10,12],"75e":4,"761":14,"779":14,"78":14,"8":[1,4,5,8,10,12],"817940326e":4,"822479152000001e":4,"83e":4,"856832":14,"867":8,"87":14,"871":1,"871e":[3,5],"9":[4,5,8,14],"90":9,"908":8,"91":8,"922868":14,"940392077826248e":4,"95":14,"951e":8,"9725010164397537e":4,"978":14,"98":[1,14],"99":14,"9957561":10,"99615666":10,"99998503":10,"99999727":10,"\u00e0":14,"\u00e5":[0,1,3,5,8,9],"\u00e8":14,"\u00e9":14,"\u00f6":14,"\u00fc":14,"abel\u00e8":[3,5],"abstract":8,"angstrom\u00b3":4,"br\u00f6hl":14,"case":[1,4,6,11],"do":[1,2],"float":[8,10,12],"function":[1,2,3,5,6,9,10,12],"import":[1,2,3,4,5,6,7,8,9,10,12],"int":1,"new":14,"return":[1,3,8,10,12],"switch":14,"true":[7,10],"try":10,"while":[4,7,8],A:[1,2,5,6,8,9,10],As:[6,9],Be:10,By:2,For:[1,4,8,9,12,14],If:[1,2,10,11,12,14],In:[1,4,6,7,9,10,11,14],It:[1,2,4,5,6,9,10,11],No:[4,5],One:9,The:[0,2,3,4,5,7,8,9,10,12,14],Then:[1,2,3],There:[5,10],These:[1,5,10],To:[1,5,7],_:[1,3],ab:[1,3],abel:[3,5,14],abeles48:[3,14],abeles_with_rough:5,abl:5,about:[7,9,10,11],abouv:1,abov:[1,2,5,8,10,12],abscissa:12,absolut:10,absorpt:4,academ:14,accept:[1,11],accor:4,accord:4,account:5,accur:[2,5,7],acf2:1,acf:1,achiev:[1,5,9,11],across:12,act:9,action:1,ad:9,adapt:5,add:[4,9],add_patch:5,addit:[1,7,9],addition:[2,3,5,7,8,10],admittedli:5,advanc:14,affect:9,after:[1,4,10],again:[1,5],against:6,agnet:14,agre:12,agreement:[2,10,12],aid:3,aim:[10,12,14],air:[1,4,5,9,14],al:7,alexand:13,algorithm:[2,10,11,14],align:1,all:[0,3,4,10,11],allow:[7,8,9,10],alon:10,alonso:14,alpha:[1,4,12],alpha_0:4,alpha_1:4,alreadi:[2,11],also:[4,8,9],although:1,alwai:4,am:14,amphiphil:9,an:[2,4,5,6,7,10,11,14],analog:[0,10,12],analys:[10,14],analysi:[3,6,8,9,10,11,12,14],analyt:2,andbook:14,andrew:[13,14],angl:4,angstrom:[4,8],ani:[5,12],anlaysi:14,ann:14,anomagnet:14,anoth:1,anphi:14,apm:9,appear:1,append:10,appl:14,appli:[1,2,5,7,9,10,14],applic:[3,10,14],approach:[1,2,3,5,6,7,8,9,10,14],approx:1,approxim:[3,14],ar:[0,1,2,3,4,5,6,7,8,9,10,11,12,14],area:7,argmax:10,argsort:10,armstrong:13,arnold:[13,14],around:[4,5],arrai:[1,3,5,8,10],artefact:5,artifici:14,artur:13,ask:14,assembl:9,assess:10,assign:8,associ:[11,12,14],assum:9,assumpt:[2,7,8,9],ateri:14,atom:[4,8,9],attach:9,attent:14,australian:13,autocorrel:1,avail:1,avogadro:8,awar:[2,10],ax:[1,5,12],axhlin:1,axvlin:1,b:[3,8,14],b_:[3,4,8],b_i:[8,9],b_n:4,b_ni:8,b_ti:8,back:10,balakrishnan:13,bar:[3,12],base:[2,3,8],basic:14,bay:[11,14],bayesian:[11,14],beam:4,becom:[1,4,10],been:[1,3,5,8,9],befor:[0,4,5,6],begin:[1,3],being:[2,5,12,14],belief:11,believ:2,below:[0,1,2,3,5,6,8,9,10,12],benefit:9,berk:14,best:[9,10,12],beta:[1,3,5,8,9],beta_0:3,beta_1:6,beta_2:6,beta_:[1,8,9],beta_i:9,beta_microsl:5,beta_n:3,beta_ni:8,beta_ti:8,between:[0,1,2,3,5,6,10,12,14],bia:2,bias:11,big:1,bigg:[1,12],biolog:[10,14],bj:14,bjorck11:[10,14],bkg:4,black:[1,10],block:14,blue:[1,10,12],bmatrix:3,book:[1,11,14],born:[3,14],borrow:1,both:[9,14],bound:[8,11],bowen:14,bp63:[11,14],brian:13,bring:3,broad:[2,12],broadli:2,brought:3,bsd:3,c6h14:4,c9cp00203k:14,c:[1,4,10,12,14],calcul:[1,2,4,5,6,9,12],call:[4,6],callback:10,campbel:14,can:[1,2,3,4,5,6,7,8,9,10,11,12],cannot:[5,12],caract:14,carbon:9,carefulli:10,caruana:13,cation:14,catter:14,caus:9,caution:7,cdot:8,centr:13,chanc:14,chang:[1,2,10],chapter:4,character:14,characterist:3,characteristic_matric:3,check:4,chem:14,chemic:[6,7,14],chemistri:2,chi:12,chicago:13,choic:4,circ:9,clark:14,classic:4,clear:[2,5,6,10],clearer:3,clearli:5,clifton:14,close:[3,4],cm:8,co:[1,4],coci:14,code:[5,8,10,14],coher:4,cold:4,colloid:14,color:12,colorbar:10,comfort:14,common:[2,5,6,8,9,10],commonli:[1,7,10,12],compar:[2,3,5,7,12],comparison:6,complementari:7,complet:[2,10],complex:[3,4,9,10,14],composit:9,computation:10,concept:7,conclus:10,condens:14,conj:3,conjug:3,consid:[1,2,3,5,6,8,9,10,11,12],consider:10,consist:[6,8,9],constant:[2,8,11],constrain:[8,9],constraint:[7,9],construct:[2,3,6,11],consult:9,content:14,context:2,continu:14,contourf:10,contrast:10,contribut:[4,14],convenit:4,convers:7,cooper:13,cosin:1,could:[6,11],coupl:10,cours:14,cover:[2,14],creat:5,croce:[5,14],crystallogr:14,crystallographi:1,css:[9,14],cubitt:14,curr:14,current:[10,14],current_theta:10,curv:4,curve_fit:12,d:[1,3,5,12,14],d_1:6,d_2:6,d_h:9,d_i:9,d_microsl:5,d_n:3,d_t:9,dan:14,data:[1,2,3,5,6,7,8,9,10,11,12,14],databas:8,datapoint:12,dataset:[1,10,12],de:14,decomposit:0,deep:14,def:[1,3,8,10,12],defin:[1,2,4,6,7,8,9,12],definit:4,deg2rad:9,delta:1,denot:1,densiti:[1,3,5,6,7,9],depend:[1,4,6,8,9,10,11,12,14],deposit:8,deriv:[1,6],descent:10,descirb:4,describ:[2,3,4,5,6,7,10,11,12],descript:[1,7,9],design:11,desir:[8,10],deslatt:14,destruct:6,detail:[0,1,2],detector:6,determin:[3,10,14],deuter:4,develop:14,deviat:[3,12],devind:[1,11,14],diatom:2,diff:[1,3],differ:[1,5,6,14],differenti:[10,11,14],differential_evolut:10,difficult:9,diffract:1,dimens:[1,6],dimension:10,dioxid:[1,5],directli:[4,8],discoveri:10,discuss:[1,5,6,12],disposit:8,distanc:1,distinct:1,distribut:[10,12],divid:1,docstr:3,doctrin:14,doe:[2,3,4,5],doi:14,domain:0,done:12,dot:12,downhil:10,dppc:9,dr:[1,11],draw:[10,14],dtype:3,du:14,due:[1,2],dura:14,dvanc:14,e:[4,6,14],each:[3,5,6,8,9],easili:[8,10],edg:4,edgecolor:5,edit:14,editor:14,edler:14,effect:[1,4,5,10,14],effici:14,eflect:14,elast:0,electron:4,element:[4,8,12],elementari:[1,14],eleph:14,els:2,enabl:[5,11],encount:[2,10],end:[1,3],energi:4,ensur:[2,10],entir:2,enumer:12,enzym:2,equat:[1,2],equival:4,error:[5,12],errorbar:12,especi:4,essai:14,essenti:0,estim:1,et:7,euroepan:13,european:14,eutect:14,eutron:14,evalu:[8,14],eventu:10,ever:2,everi:9,evolut:[10,11,14],evolutionari:10,exampl:[2,4,5,6,7,10,11],exhaust:14,exist:[5,10],exp:[1,3,5],expand:14,expect:[2,11],experi:[2,4,14],experiment:[2,6,7,12],expert:14,explicitli:1,exploit:14,explor:1,extend:9,extrem:9,f:[1,3,4,8,14],fact:11,factor:[3,4,12],fair:2,fals:5,familiar:[1,2,7],fantast:1,far:12,fashion:10,feed:10,feedback:14,feel:14,fernandez:14,ff7f0e:12,field:[9,14],fig:[1,5,6,9,12],figsiz:[1,5,12],figur:[1,2,5,10,12,14],fill:5,fill_between:12,find:[1,2,5,8,9,10,11,12,14],find_peak:1,first:[1,2,3,6,7,8,10,12],fit:[2,7,8,10,12,14],fitzsimmon:14,flat:[1,5],flavour:[7,10],flexion:14,flow:2,fm05:14,fm:8,focu:14,focus:0,follow:[1,8,9,10,12,14],forc:2,form:[1,10],formal:[3,5],format:14,formula:4,found:[1,3,5,8,9,10,11],four:14,fourier:[2,3,6,14],fourier_transform:1,frac:[1,3,4,5,8,9,11,12],fraction:9,francoi:13,free:[7,10,14],frensel:3,fresnel:[3,5],fresnel_reflect:3,fring:1,from:[0,1,2,3,4,5,6,7,8,9,10,12,14],fu:4,full:1,fulli:9,fundament:[0,6],further:[10,11],futur:14,g:[8,14],gaetano:13,gain:1,garbag:2,gcm:8,gener:[2,10,14],genet:14,geometri:6,gerelli:14,get:[2,12],github:14,give:[0,3,7,14],given:[5,6,9,10,12],glavic:13,glob:14,global:[10,14],go:[3,6,10],good:12,gradient:12,gradient_callback:10,gradient_v:10,gradual:14,graphic:8,great:[0,11],greater:1,group:9,grutter:13,guess:10,guntherodt:14,h:14,ha:[1,5,8,9,14],hall:13,hand:5,hard:8,harder:10,have:[1,2,3,9,10,11,12],head:9,heavier:4,heavili:[9,12,14],heavisid:1,heinrich:14,helmholtz:13,helper:[5,10],henc:[0,12],henomena:14,here:[3,4,12],hereon:13,heurist:14,higher:9,hoogerheid:14,hopefulli:6,horizont:1,how:[2,6,7,9,12,14],howard:14,howev:[1,2,5,6,7,8,10,12],hydrocarbon:9,hydrophil:9,hydrophob:[9,14],i10q:1,i:[1,3,4,6,8,9,12],identifi:5,ignor:[4,5],illinoi:13,illustr:4,imaginari:4,impact:[0,5],implement:[3,5,10],impli:5,impos:11,improv:2,inaccur:5,incid:[1,6],includ:[0,2,3,8,9,14],incorrectli:5,increas:[5,10,12],independ:2,indic:[1,4,10,12],individu:[3,4,8],induc:14,influenc:5,inform:[1,7,14],infti:1,inher:2,initi:10,input:3,insect:10,insight:[2,14],insolubl:9,inspir:10,instead:[1,3,8,10,11],institut:13,instrument:9,integr:11,intens:[1,10],interact:[0,1],intercal:9,intercept:12,interest:[0,2,14],interfac:[3,4,5,6,9,14],interfer:[1,6],interpret:[2,5],interrog:[5,10],introduc:[2,5,6,7,9,11],introduct:[11,14],inv_fourier_transform:1,invers:[1,14],investig:[1,2,7,10],involv:[6,8],ipykernel_2021:4,isbn:14,isi:[13,14],isotop:10,issu:[1,14],its:8,j:14,jackson:14,jci:14,jean:13,john:[7,14],joshaniel:13,jpsc21:[7,14],k0:3,k:[1,3,10,14],k_0:3,k_:[3,5],k_n:[3,5],karin:14,khairi:14,kienzl:14,kinet:2,kn:3,knowledg:14,known:[2,9],kronm:14,l:[10,11,12,14],la:14,label:[1,3,4,5,10],lak19:14,lakei:14,lambda:4,languag:[7,14],larg:[1,14],last:4,later:[6,8],latter:7,law:4,lawrenc:14,layer:[3,4,5,6,8,9],le:14,lead:[0,1,2,4,5,6],leak:5,learn:9,lectromagn:14,left:[4,5],legend:[1,3,4,5],length:[1,3,5,6,7,9],leq:1,less:6,let:[0,1,11],licens:3,light:14,like:[1,2,5,9,11],likelihood:11,limit:[1,2,8,9],line:[1,10,12],linearli:12,linspac:[1,3,4,5,9,10,12],lipid:14,liquid:14,list:14,literatur:9,ller:14,ln:[10,12],loadtxt:12,local:10,log:[1,3,5,12],logic:[2,11,14],logpdf:10,lond:14,look:[0,1,2,3,7,10,11,12],loss:1,lost:6,lovel:14,low:3,lr99:[2,14],ls:12,lw:12,m:[3,10,12,14],m_:[3,8],m_e:4,m_w:8,m_w_ni:8,m_w_ti:8,made:[2,7,8],magnet:[4,14],magnitud:1,mai:[1,2,7,8,12,14],majkrzak:14,major:[8,12],make:[2,3,4,7,9,14],mangiapia:13,mani:[10,14],maranvil:13,mark:13,marker:12,mass:7,match:1,materi:[1,3,4,5,6,8],mathcal:[10,11,12],mathemat:14,mathit:[1,3],mathrm:[1,3,8,9,12],matnei:14,matplotlib:[1,3,4,5,9,10,12],matric:3,matrix:[3,5],matter:[8,14],matyszewska:14,max:[1,3,12],maxima:10,maximilian:13,maximis:[11,12],maximum:[9,10,11,12],mayer:14,mbd:[1,14],mccluskei:[13,14],mead:10,mean:[1,5,8,9,10,12],measur:[0,1,2,6,7,11,12,14],media:3,member:10,membran:14,menten:2,mention:9,merit:2,meshgrid:10,method:[3,5,14],methodolog:[1,2,5,10],metri:14,metric:[10,12],micel:14,micha:2,might:[2,14],milieux:14,minim:10,minimis:[10,12],minimum:[10,11],mkh10:[2,14],mn_d2o:4,mn_h2o:4,mn_layer:4,modal:10,model:[1,4,5,8,9,10,11,12,14],modifi:[3,5],modul:[4,5,10],modulenotfounderror:4,mol:8,molecul:[2,7],molecular:8,moment:4,monolay:14,more:[0,2,4,5,7,8,9,10,11,12],most:[3,4,5,6,10],moulin:13,move:10,movement:14,msfe:[9,14],much:[3,6],multi:10,multivariate_norm:10,muon:13,must:[2,5,9],mv1:10,mv2:10,mv:10,mx_h2o:4,mx_layer:4,n:[3,4,5,8,9,12,14],n_0:4,n_1:4,n_:[3,12],n_a:8,n_c:9,n_i:4,name:4,nanostructur:14,nation:13,natur:[7,9],nazaruk:14,ndarrai:[1,3,8,10,12],nearbi:10,necessari:[3,5,10],need:2,neg:10,neglig:4,nelder:10,nelson:[13,14],neutron:[0,1,2,3,6,7,8,10,13,14],nevot:5,nevotc80:[5,14],newaxi:[1,3],ni:8,nickel:[5,8],nist:4,nll:10,nois:1,noisi:1,non:10,none:[4,10],norm:12,normal:[1,3,4,10,12],normal_wavevector:3,normalis:[1,12],note:[1,2,9,10],notic:[5,12],now:[0,3,5,9,10,12],np19:[3,14],np:[1,3,4,5,8,9,10,12],nuanc:6,number:[1,4,7,8,9,10,12],number_lay:3,number_q:3,numer:1,numpi:[1,3,4,5,8,9,10,12],o:12,observ:[1,5,6,12],obtain:[1,5,8],obvious:6,offer:2,offset:1,often:14,olar:14,onc:[10,14],ond:14,one:[4,9,10,11,12],ones:3,ones_lik:5,onli:[1,5,8,9,12],onlin:8,open:14,opin:14,opinion:14,optim:[10,12,14],optimis:[9,10],optimum:10,orang:[10,12],order:[4,6,10],organis:14,orient:4,origin:14,other:[9,12],our:[1,2,5,6,7,8,9,10,12],out:[2,11],outsid:[4,11],over:14,overal:[3,10,12],overview:0,oxford:14,p0:3,p1:3,p:[11,12,14],packag:[3,4,8],page:14,pai:14,panaccion:14,paper:14,par54:[3,14],par:14,param:[1,3,8,12],paramet:[3,5,6,7,8,9,10,11,12,14],parameteris:[7,9,14],pari:14,parker:14,parkin:14,parratt:[3,14],part:[1,4,12],particl:10,particular:[6,7],particularli:14,patch:5,path:[6,10],pattern:[0,1,6],paul:13,pdf:[10,12],peak:1,pedogog:1,pedulla:14,per:7,perfect:5,perfectli:5,perform:[0,1,12],perpendicular:1,pg:1,phase:[1,2,3,14],phase_factor:3,phi:3,phi_0:3,phi_i:9,phi_n:3,phi_t:3,phil:14,phospholipid:14,phy:14,physic:[1,2,6,7,9,14],physica:14,physrev:14,pi:[1,3,4,12],pictori:9,piec:[1,5,8],pint:8,place:11,plane:[1,9],pleas:[4,14],plot:[1,3,5,9,10,12,14],plt:[1,3,4,5,9,10,12],point:12,polar:14,polissag:14,popul:10,popular:2,posit:10,possibl:[1,2,5,6,9,10,12],posterior:11,potenti:4,prepar:[2,8],prescott:14,present:[1,2,5],press:14,pressur:9,preston:14,previou:[2,7],previous:[3,5,7,9],price:14,print:[1,4,8,10],probabl:[11,12],probe:[2,10,11],problem:[1,2,10,14],procedur:14,process:[2,7,8,10,14],prod:3,produc:[1,2,14],product:3,profil:[1,5,6],program:14,propag:[3,6,14],propos:2,propto:11,proton:4,purnima:13,py:[4,5,10],pyplot:[1,3,4,5,9,10,12],python:[3,14],q2:1,q:[0,1,2,3,4,5,14],q_:1,q_x:1,q_y:1,qualiti:10,quantifi:10,quantiti:[4,14],quelqu:14,question:14,quick:1,quickli:1,r2:1,r:[1,3,5,6,9,13,14],r_:[3,4,5],r_abel:3,r_e:4,r_fourier:3,r_microsl:5,r_nevot_croc:5,r_with_rough:5,radiat:[0,1,4],radiu:4,rai:[1,14],random:10,rang:[1,2,3,5,10,14],rasant:14,rather:[2,7,8],ratio:6,ration:10,rationalis:1,rayon:14,rck:14,re:10,reach:[8,10],read:14,real:[3,5,6],realli:2,reason:8,recent:[4,9,14],reciev:14,reciproc:4,rectangl:5,recurs:3,red:5,reduc:[7,9],refin:6,reflecit:4,reflect:[1,2,5,6],reflectmodel:4,reflecto:14,reflectometri:[0,2,3,4,5,6,7,8,9,10,12],refnx:[3,4,14],refract:[3,6],region:[1,5,9,10],rel:4,relat:8,relationship:1,relev:[9,14],reli:3,render:1,reparameteris:[6,8,9,12,14],repeat:8,repositori:14,repres:[2,12],reproduc:3,requir:[7,14],res1:10,res2:10,resolut:[1,2],respect:[1,4],result:[1,2,3,5,6,10],resultant_matrix:3,retriv:1,rev:14,review:14,rewrit:1,rho:[3,8],rho_:[4,8],rho_fu_lay:4,rho_fu_wat:4,rho_ni:8,rho_ti:8,rho_to_beta:8,richardson:14,right:[1,4,5],risat:14,robust:10,room:8,root:10,rout:10,rphysap:14,rsta:14,rstl:14,rule:5,s0021889811041446:14,s0921:14,s1359:14,s1600576718017016:14,s1600576718017296:14,s:[0,1,4,8,9,10,11,14],saaka:14,sai:1,same:[1,4,5,6,8,12],sampl:[0,1,2,4,5,8],sanchez:14,sansom:14,satija:14,scale:[1,14],scatter:[0,1,3,5,6,7,9,13,14],sche:14,scherrer:13,schlossman:13,school:14,sci:14,scienc:[2,14],scipi:[1,8,10,12],scope:4,search:14,second:4,section:[2,6,7,10],see:[4,5,6,10],seen:[11,12],select:12,self:9,semi:10,semilog:4,sensit:1,separ:1,seri:[1,3,5,6],set:8,set_xlabel:[1,5,12],set_xlim:5,set_ylabel:[1,5,12],set_ylim:5,shao:14,shape:[3,10],shortest:5,should:[1,4,5,7,9,10,12,14],show:[1,2,3,5,6,8,9,10,12,14],shown:[1,2,3,5,6,9,10,12],si:1,sigma2:5,sigma3:5,sigma5:5,sigma7:5,sigma:[5,12],sigma_:5,sigma_n:12,sign:4,signal:1,silic:14,silicon:[1,5,8],similar:[2,3],simpl:[1,2,4,6,7,8,9,10,11,14],simpli:10,simul:[2,5,6,7,8],sin:[4,9],singl:[9,12],sio_2:1,sit:[9,12],siv11:[1,14],sivia:[1,11,14],sj06:[11,14],skill:14,skip:14,sko19:14,skoda:[13,14],slab:[5,7,9,14],sld_:4,sld_n:4,sld_with_rough:5,sld_x:4,sldn_d2o:4,sldn_h2o:4,sldn_layer:4,sldx_layer:4,sldx_water:4,smooth:[1,5],snell:4,so:12,soc:14,soft:14,solid:14,solubl:9,solut:10,solv:14,solvat:9,solvent:[9,14],some:[0,1,2,5,6,9,10,11,12,14],someth:[0,2,4],son:14,sourc:[13,14],sp97:[10,14],space:[0,4,10,14],spallat:[13,14],speak:9,specif:[7,9],spectra:2,specular:14,spin:4,spintron:14,springer:14,sqrt:3,squar:[1,3],sratifi:14,staff:9,standard:[12,13,14],start:[10,11],stat:[10,12],state:11,std:1,step:[1,5,10,11],stephen:13,still:[5,8],storn:14,straight_lin:12,straightforward:7,strand:9,stratifi:3,structur:[1,2,4,7,8,14],studi:[1,2,9,14],subject:14,subplot:[1,5,12],suggest:[11,14],sum:[1,3,4,8],sum_:[4,8,9,12],summat:12,superphas:3,sur:14,sure:14,surfac:[1,3,4,8,14],surfact:14,swarm:10,synthesi:2,system:[1,2,5,6,7,8,9,10,14],t:[10,14],t_t:9,tabl:4,tabul:4,tackl:2,tail:9,take:[0,2,10,11],taken:[3,6],tan80:[9,14],tanford:[9,14],techniqu:[7,14],technolog:13,temperatur:8,tend:1,term:[6,8,9,12],text:1,textquotesingl:14,than:[1,5,8,10],thei:[1,10,14],them:[5,12],theorem:11,theori:[1,14],therefor:[1,2,5,7,8,10,11],thermal:4,theta:[9,10,11,12],thi:[0,1,2,3,4,5,6,7,8,9,10,11,12],thick:[1,3,5,6,9],thin:5,thing:2,think:7,thopson:4,those:11,thought:1,three:[2,8],through:[3,5,6,14],thu:4,thumb:5,tight_layout:12,time:[0,1,5,8],times10:1,tiqu:14,titanium:8,tkh:[10,14],tmp:4,togeth:3,tom:13,tool:[1,2,7],top4:10,top:1,toperverg:14,total:14,toward:[1,10,14],traceback:4,tradit:[8,9,14],tran:14,transform:[2,3,6,14],translat:7,transmitt:3,treec:14,trigonometri:9,tude:14,turn:10,tutori:[11,14],two:[1,2,3,5,6,7,9,10],txt:12,typic:[2,4,5,6,7,8,9,10,12],tz07:14,u:8,uantum:14,uncertainti:12,unclear:8,under:[1,3,9],underli:[2,12],understand:[1,2,3,6,7,11,14],unintuit:7,uniqu:10,unit:[0,4],unitregistri:8,univers:[13,14],unlik:9,unphys:[1,5],until:8,up:10,uphil:10,us:[2,3,4,5,7,8,9,10,11,12,14],useless:1,user:[1,14],util:4,utilis:1,valu:[1,3,4,8,9,10,11,12],valuabl:1,vari:[8,10],variabl:8,varieti:10,vector:3,veri:[5,9,10],verr:14,version:1,vibrat:2,video:0,visualis:[1,5],vot:14,w:[8,14],wa:[1,2,6,11,14],wai:[2,4,9],watch:0,water:[4,9,14],wave:[3,6],wavelength:4,wavevector:[1,3],wc19:14,we:[0,1,2,4,5,6,7,8,9,11,12,14],webpag:14,weight:8,welbourn:14,well:2,were:11,what:14,when:[3,6,9,10,11,12],where:[1,2,3,4,5,6,8,9,10,11,12],which:[0,1,3,5,8,9,10,11,12],width:5,wiesendang:14,wikipedia:4,wilei:14,within:11,without:[1,2,5],word:[2,14],work:[5,7,14],workflow:2,workshop:14,wormington:14,would:[1,2,5,6,9,11],wpmb99:[10,14],written:[1,12],wwe:9,x:[1,10,12,14],x_n:12,xlabel:[1,3,5,9,10],xlim:4,xy:9,y:[10,11,12,14],y_fit:12,y_n:12,ylabel:[1,3,5,9,10],ylim:4,you:[1,2,11,12,14],your:[9,14],yscale:[1,3,5],yy:12,z:[1,3,5,6],zabel:14,zentrum:13,zero:3,zeros_lik:[1,3],zhou:14,zorder:12,zq:1,ztbt07:14},titles:["An introduction to Fourier transforms","Fourier transforms for reflectometry analysis","What is model-dependent analysis?","How we calculate the reflectivity of a slab model","Optical parameters for neutrons and x-rays","Roughness and microslicing","The \u201cslab model\u201d","A case for model reparameterisation","NiTi multilayer example","Phospholipid monolayer example","How do we maximise the likelihood?","How to leverage our prior knowledge?","What is the likelihood?","Contributors","A Guide to Reflectometry"],titleterms:{"case":7,"do":10,A:[7,11,14],The:[1,6],about:14,algorithm:3,an:[0,1],analysi:[1,2],angl:9,approxim:1,area:9,bibliographi:14,born:1,calcul:3,chain:9,contrast:4,contributor:13,densiti:[4,8],depend:2,differ:4,exampl:[1,8,9],fourier:[0,1],fresnel:4,gradient:10,guid:14,how:[3,10,11],implic:4,index:4,interfac:1,interfaci:5,introduct:0,knowledg:11,layer:1,length:[4,8],leverag:11,likelihood:[10,12],mass:8,materi:14,maximis:10,method:10,microsl:5,model:[2,3,6,7],molecul:9,monolay:9,multilay:8,neutron:4,niti:8,optic:4,our:11,oxid:1,paramet:4,per:9,phospholipid:9,prior:11,problem:5,rai:4,reflect:[3,4,14],reflectometri:[1,14],refract:4,reparameteris:7,rough:5,scatter:[4,8],singl:1,slab:[3,6],sld:4,specular:1,stochast:10,term:4,thi:14,tilt:9,transform:[0,1],uniform:11,us:1,vs:14,we:[3,10],what:[0,2,12],x:4}})

diff --git a/3_reflectometry_slab_models/optical_parameters_for_neutrons_and_xrays.html b/3_reflectometry_slab_models/optical_parameters_for_neutrons_and_xrays.html
@@ -549,7 +549,7 @@ We will use the simple example of a layer of something on water:</p>
 <div class="cell_output docutils container">
 <div class="output traceback highlight-ipythontb notranslate"><div class="highlight"><pre><span></span><span class="gt">---------------------------------------------------------------------------</span>
 <span class="ne">ModuleNotFoundError</span><span class="g g-Whitespace">                       </span>Traceback (most recent call last)
-<span class="o">/</span><span class="n">tmp</span><span class="o">/</span><span class="n">ipykernel_2058</span><span class="o">/</span><span class="mf">1251681342.</span><span class="n">py</span> <span class="ow">in</span> <span class="o">&lt;</span><span class="n">module</span><span class="o">&gt;</span>
+<span class="o">/</span><span class="n">tmp</span><span class="o">/</span><span class="n">ipykernel_2021</span><span class="o">/</span><span class="mf">1251681342.</span><span class="n">py</span> <span class="ow">in</span> <span class="o">&lt;</span><span class="n">module</span><span class="o">&gt;</span>
 <span class="g g-Whitespace">      </span><span class="mi">1</span> <span class="kn">import</span> <span class="nn">numpy</span> <span class="k">as</span> <span class="nn">np</span>
 <span class="g g-Whitespace">      </span><span class="mi">2</span> <span class="kn">import</span> <span class="nn">matplotlib.pyplot</span> <span class="k">as</span> <span class="nn">plt</span>
 <span class="ne">----&gt; </span><span class="mi">3</span> <span class="kn">import</span> <span class="nn">utils</span>

diff --git a/5_fitting_processes_and_problems/how_do_we_maximise_the_likelihood.html b/5_fitting_processes_and_problems/how_do_we_maximise_the_likelihood.html
@@ -616,7 +616,7 @@ This is necessary as, as we can see from the overall maximum, the differential e
 </div>
 <div class="cell_output docutils container">
 <img alt="../_images/how_do_we_maximise_the_likelihood_6_0.png" src="../_images/how_do_we_maximise_the_likelihood_6_0.png" />
-<div class="output stream highlight-myst-ansi notranslate"><div class="highlight"><pre><span></span>Overall Maximum: [7.89954207 2.36841741]
+<div class="output stream highlight-myst-ansi notranslate"><div class="highlight"><pre><span></span>Overall Maximum: [ 3.0437418  -0.02406394]
 </pre></div>
 </div>
 </div>
